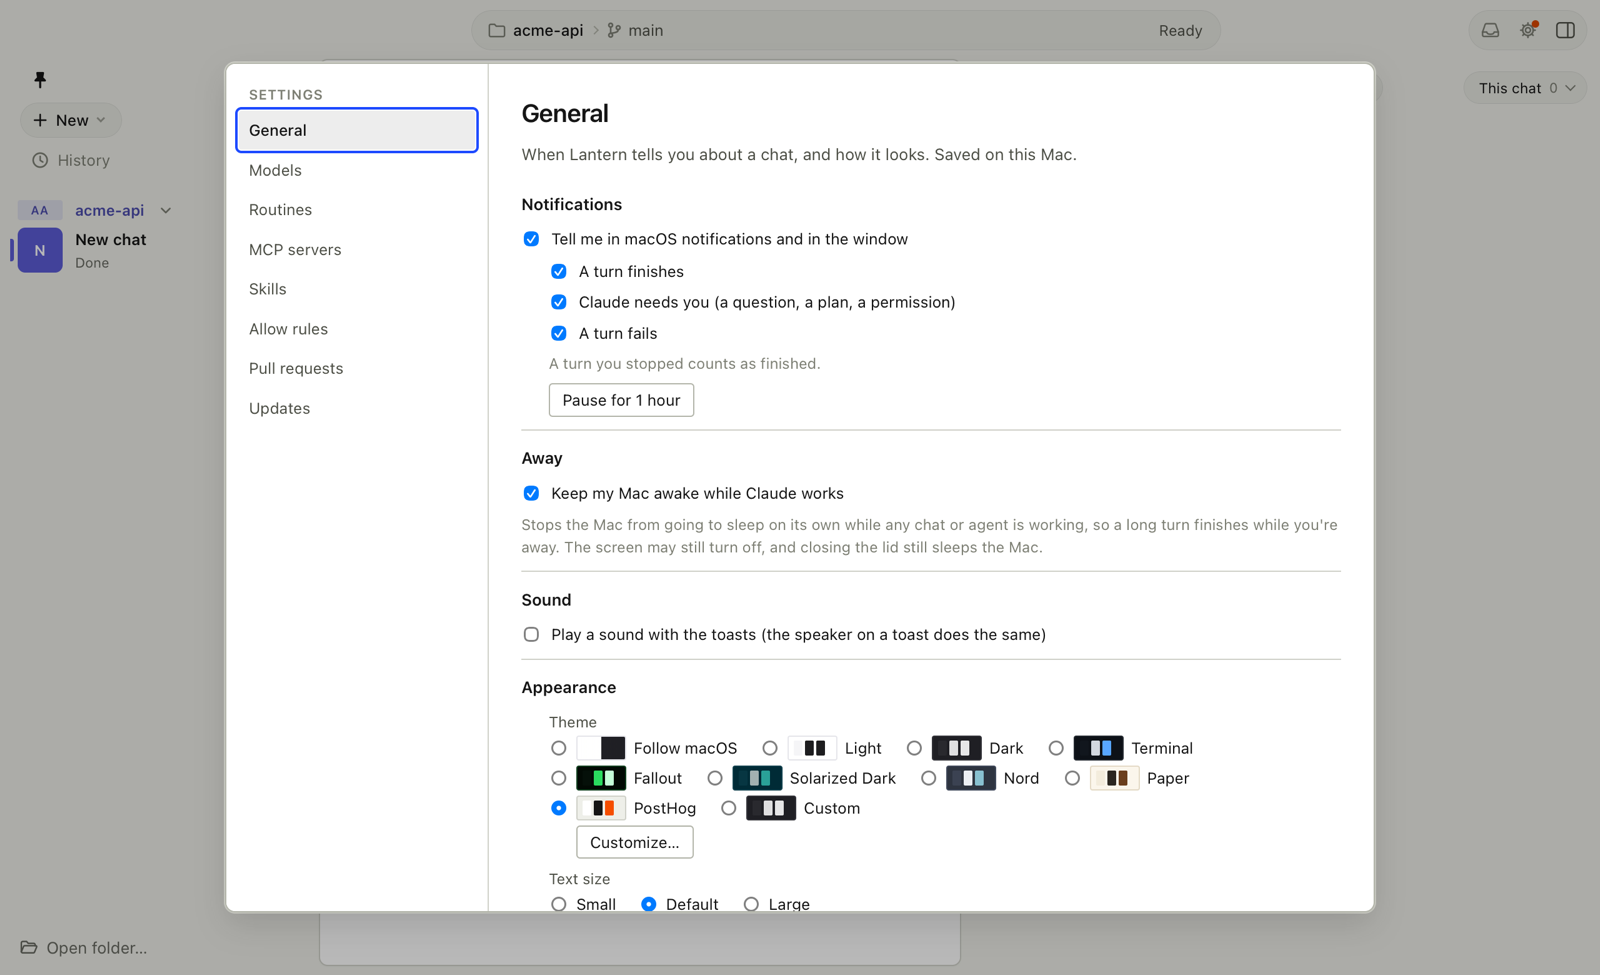
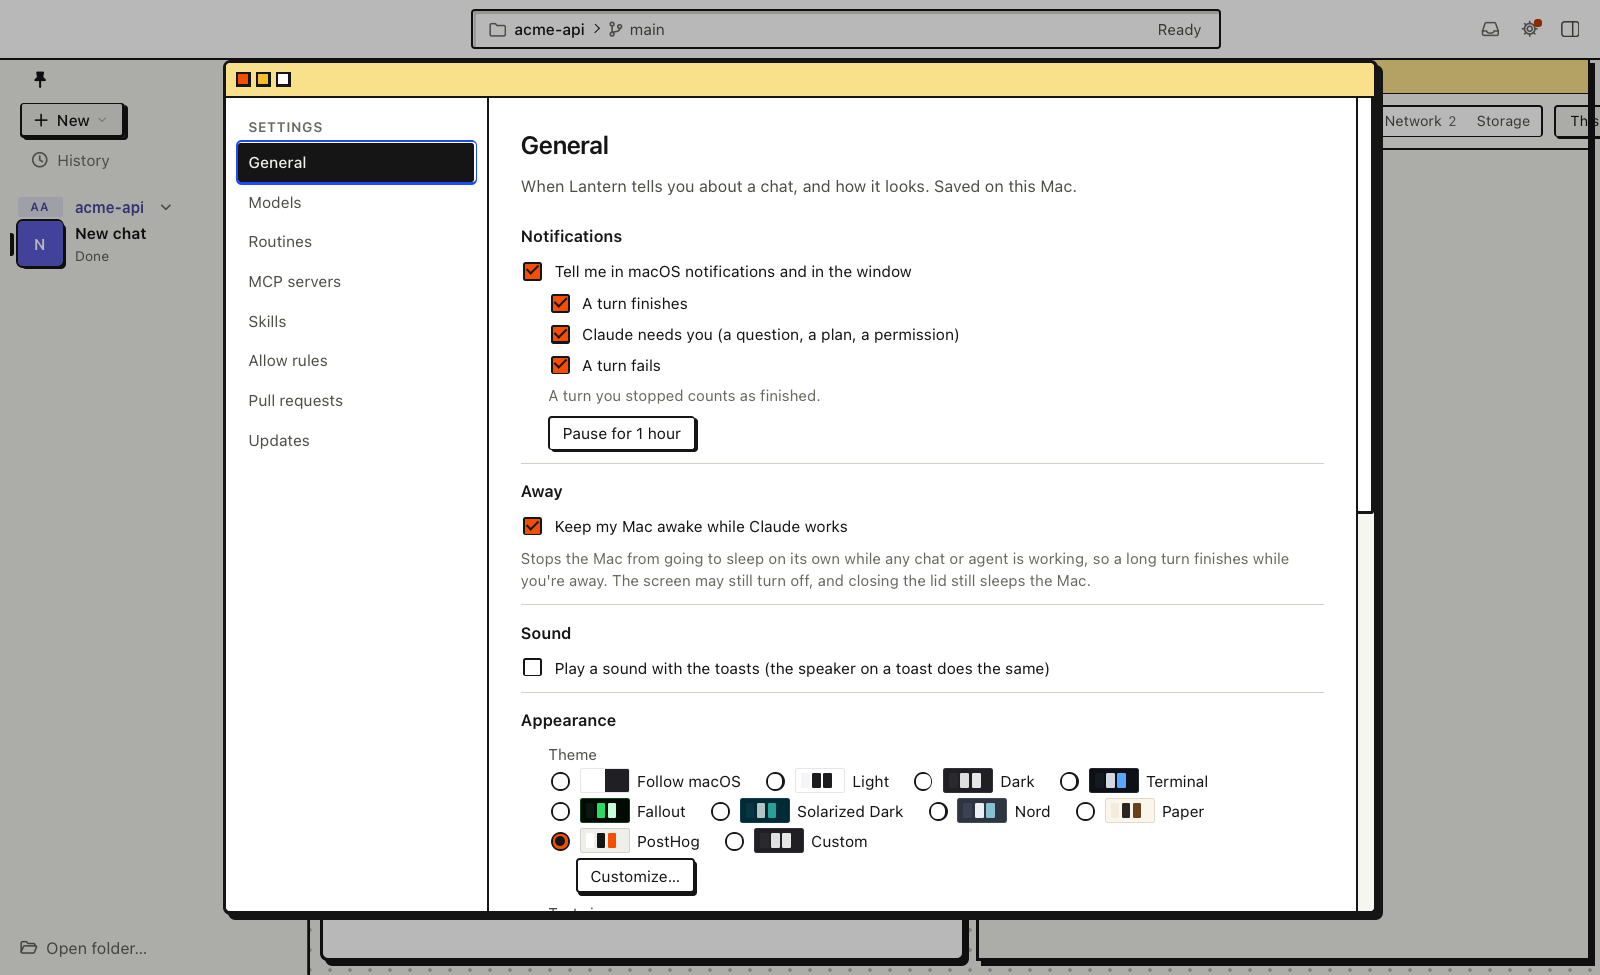
docs: describe the PostHog desktop look and show it in new screenshots

Changed region(s): [[0.125, 0.0, 1.0, 1.0], [0.0, 0.2154, 0.0938, 0.2769], [0.0, 0.1231, 0.0938, 0.1538]]

diff --git a/docs/FEATURES.md b/docs/FEATURES.md
@@ -408,7 +408,7 @@ Settings ▸ General ▸ Theme picks how Lantern looks, with a small preview of 
 - **Terminal**: a modern terminal scheme (think Warp or Ghostty): near-black with a cool tint, light text, monospace everywhere, square corners and thin lines instead of shadows. Colour is used the way syntax highlighting does: green for what you typed and for additions, yellow for "working", red for errors and removals, blue for links, purple for emphasis. **Bold** is white, `inline code` is an orange chip, headings are cyan and a quote has a purple bar.
 - **Fallout**: a Pip-Boy terminal, all phosphor green on green-black, in three levels: bright for headings and bold (with a soft glow), normal for text, dim for what is secondary. Inline code and code headers are in reverse video (dark on bright green), code blocks and what you send sit in boxes (what you send starts with a `>` prompt), small labels are in capitals, the cursor in the chat box is a block, and faint scanlines and a darkened edge sit over the window. They are still, don't catch clicks, and text keeps its contrast (4.5:1 or more).
 - **Solarized Dark**, **Nord** and **Paper** (a warm light theme): colours only.
-- **PostHog**: a cream page with white cards, near-black text and one hot orange accent. Thin warm-grey outlines, slightly tighter corners, blue links and a yellow hover on the orange buttons.
+- **PostHog**: posthog.com's playful retro desktop. A dotted cream desktop with the chat, the side panel, dialogs and permission cards as little windows: a yellow title-bar strip with three square window controls, a thick near-black outline and a hard offset shadow with no blur, square-ish corners. Buttons are chunky and press down (orange for the main one, yellow under the pointer), the chosen tab is filled yellow, what you send is a yellow sticky note, steps are dashed rows, code blocks have their own title strip, and the top bar is a menu bar whose items invert under the pointer. Blue links, system fonts, no artwork; the only motion is the press-down, which stays put when Reduce motion is on.
 - **Custom**: **Customize…** opens six colour pickers (background, panels, text, secondary text, accent and lines), a **Monospace everywhere** switch and a **Rounded or Square** corners choice. It starts from the theme you have now, the app changes as you pick, and it warns you when your text colour would be hard to read on your background (under 4.5:1). The rest of the colours are worked out from your six.
 
 The code editor and diffs, diagrams and shell output follow the theme, and a chosen theme is on before the first screen is drawn, so nothing flashes the default.
